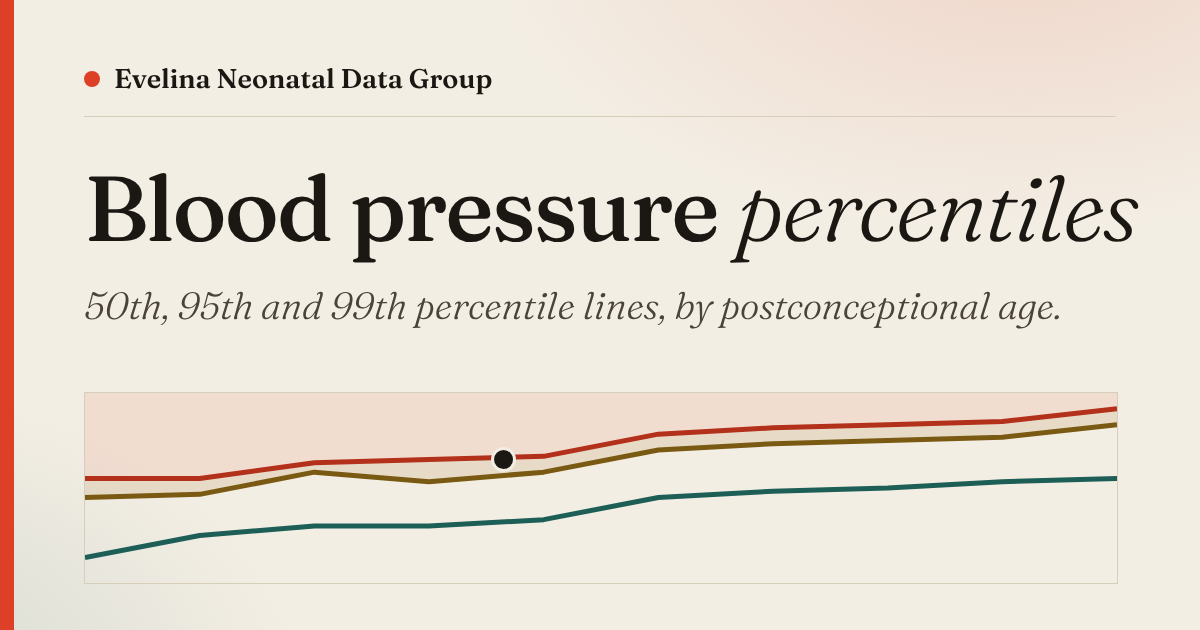
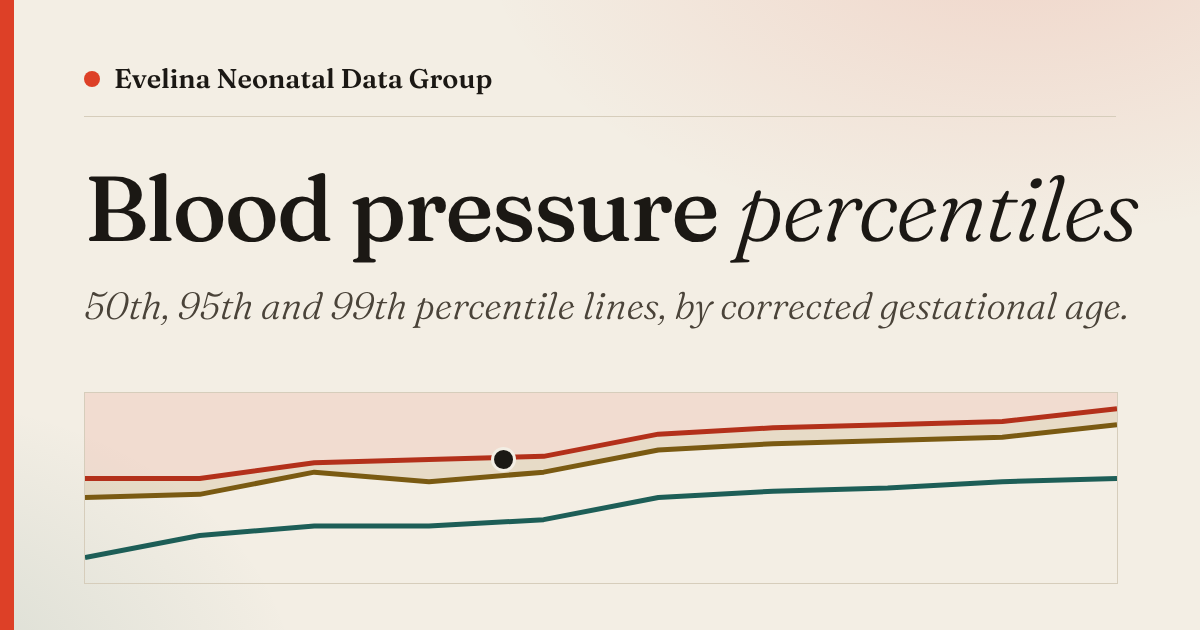
Use corrected gestational age (CGA) terminology
Claude-Session: https://claude.ai/code/session_01LNm2tDApPqiwaX77xzWBnh

Changed region(s): [[0.5858, 0.4524, 0.925, 0.5127]]

diff --git a/index.html b/index.html
@@ -4,7 +4,7 @@
 <meta charset="utf-8">
 <meta name="viewport" content="width=device-width, initial-scale=1">
 <title>Neonatal blood pressure percentiles | Evelina Neonatal Data Group</title>
-<meta name="description" content="Evelina Neonatal Data Group tool: see where a newborn baby’s systolic, diastolic and mean blood pressure falls against the 50th, 95th and 99th percentiles by postconceptional age (Dionne 2012). Nothing you enter leaves your device.">
+<meta name="description" content="Evelina Neonatal Data Group tool: see where a newborn baby’s systolic, diastolic and mean blood pressure falls against the 50th, 95th and 99th percentiles by corrected gestational age (Dionne 2012). Nothing you enter leaves your device.">
 <meta name="theme-color" media="(prefers-color-scheme: light)" content="#f3eee4">
 <meta name="theme-color" media="(prefers-color-scheme: dark)" content="#1b2227">
 <script>
@@ -35,11 +35,11 @@
 <meta property="og:type" content="website">
 <meta property="og:url" content="https://drhammadkhan.github.io/neonatal-hypertension/">
 <meta property="og:title" content="Neonatal blood pressure percentiles | Evelina Neonatal Data Group">
-<meta property="og:description" content="See where a newborn baby’s blood pressure falls against the 50th, 95th and 99th percentiles by postconceptional age (Dionne 2012). Nothing you enter leaves your device.">
+<meta property="og:description" content="See where a newborn baby’s blood pressure falls against the 50th, 95th and 99th percentiles by corrected gestational age (Dionne 2012). Nothing you enter leaves your device.">
 <meta property="og:image" content="https://drhammadkhan.github.io/neonatal-hypertension/og-image.png">
 <meta property="og:image:width" content="1200">
 <meta property="og:image:height" content="630">
-<meta property="og:image:alt" content="Evelina Neonatal Data Group: blood pressure percentiles, 50th, 95th and 99th percentile lines by postconceptional age">
+<meta property="og:image:alt" content="Evelina Neonatal Data Group: blood pressure percentiles, 50th, 95th and 99th percentile lines by corrected gestational age">
 <meta name="twitter:card" content="summary_large_image">
 <meta name="twitter:image" content="https://drhammadkhan.github.io/neonatal-hypertension/og-image.png">
 <link rel="icon" href="favicon.svg" type="image/svg+xml">
@@ -274,7 +274,7 @@
 
   <div class="kicker">Dionne 2012 &middot; neonatal hypertension</div>
   <h1>Blood pressure <em>percentiles</em></h1>
-  <p class="lede">Enter the baby&rsquo;s age and a blood pressure reading to see where the systolic, diastolic and mean pressure fall against the 50th, 95th and 99th percentiles for postconceptional age.</p>
+  <p class="lede">Enter the baby&rsquo;s age and a blood pressure reading to see where the systolic, diastolic and mean pressure fall against the 50th, 95th and 99th percentiles for corrected gestational age.</p>
 
   <main class="grid">
     <div class="stack">
@@ -284,7 +284,7 @@
           <span class="label" id="modeLabel">Enter age as</span>
           <div class="seg" role="radiogroup" aria-labelledby="modeLabel">
             <label><input type="radio" name="mode" value="ga" checked><span>Gestation + age</span></label>
-            <label><input type="radio" name="mode" value="pma"><span>PMA directly</span></label>
+            <label><input type="radio" name="mode" value="pma"><span>CGA directly</span></label>
           </div>
         </div>
         <div class="field" id="gaField">
@@ -299,14 +299,14 @@
           <div class="unit"><input id="pnd" type="number" inputmode="numeric" min="0" max="200" step="1"><span>days old</span></div>
         </div>
         <div class="field" id="pmaField" hidden>
-          <span class="label" id="pmaLabel">Postconceptional age</span>
+          <span class="label" id="pmaLabel">Corrected gestational age</span>
           <div class="row" role="group" aria-labelledby="pmaLabel">
-            <div class="unit"><input id="pmaw" type="number" inputmode="numeric" min="26" max="44" step="1" aria-label="Postconceptional age, weeks"><span>weeks</span></div>
-            <div class="unit"><input id="pmad" type="number" inputmode="numeric" min="0" max="6" step="1" aria-label="Postconceptional age, extra days"><span>+ days</span></div>
+            <div class="unit"><input id="pmaw" type="number" inputmode="numeric" min="26" max="44" step="1" aria-label="Corrected gestational age, weeks"><span>weeks</span></div>
+            <div class="unit"><input id="pmad" type="number" inputmode="numeric" min="0" max="6" step="1" aria-label="Corrected gestational age, extra days"><span>+ days</span></div>
           </div>
         </div>
         <div class="err" id="ageErr" role="alert"></div>
-        <p class="pma-line"><span>Postconceptional age</span><b id="pmaOut">&ndash;</b></p>
+        <p class="pma-line"><span>Corrected gestational age</span><b id="pmaOut">&ndash;</b></p>
       </section>
 
       <section class="card" aria-labelledby="bpH">
@@ -339,7 +339,7 @@
           <label><input type="radio" name="measure" value="MAP" checked><span>MAP</span></label>
         </div>
       </div>
-      <div class="chartwrap" id="chart" role="img" aria-label="Chart of blood pressure percentile lines by postconceptional age"></div>
+      <div class="chartwrap" id="chart" role="img" aria-label="Chart of blood pressure percentile lines by corrected gestational age"></div>
       <div class="legend" aria-hidden="true"><span><i class="l50"></i>50th</span><span><i class="l95"></i>95th</span><span><i class="l99"></i>99th</span><span><i class="dot"></i>Reading</span></div>
     </section>
   </main>
@@ -350,7 +350,7 @@
       <div>
         <div class="tablewrap">
           <table class="thr">
-            <thead><tr><th>PMA</th><th>Measure</th><th>50th</th><th>95th</th><th>99th</th></tr></thead>
+            <thead><tr><th>CGA</th><th>Measure</th><th>50th</th><th>95th</th><th>99th</th></tr></thead>
             <tbody id="tbody"></tbody>
           </table>
         </div>
@@ -360,7 +360,7 @@
     <details>
       <summary>How the result is worked out</summary>
       <div>
-        <p><b>Postconceptional age</b> is gestation at birth plus age in days, in weeks. The table covers 26 to 44 weeks; outside that range no result is given.</p>
+        <p><b>Corrected gestational age</b> is gestation at birth plus age in days, in weeks. The table covers 26 to 44 weeks; outside that range no result is given.</p>
         <p><b>Bands.</b> Below the 50th; 50th up to the 95th; 95th up to the 99th; at or above the 99th. A value equal to a percentile counts as being in the higher band. The overall result is the highest band reached by systolic, diastolic or mean pressure.</p>
         <p><b>Between table rows.</b> For ages between two tabulated rows the percentile values are interpolated in a straight line. For example at 35 weeks the 95th percentile MAP is halfway between the 34-week and 36-week values.</p>
       </div>
@@ -368,14 +368,14 @@
     <details>
       <summary>About this tool</summary>
       <div>
-        <p>Percentile values are from Dionne JM, Abitbol CL, Flynn JT. Hypertension in infancy: diagnosis, management and outcome. <i>Pediatr Nephrol</i> 2012;27:17&ndash;32 (erratum <i>Pediatr Nephrol</i> 2012;27:159&ndash;60), which gives blood pressure by postconceptional age for infants of 26 to 44 weeks. Plotting a reading and banding it are additions to the published table.</p>
+        <p>Percentile values are from Dionne JM, Abitbol CL, Flynn JT. Hypertension in infancy: diagnosis, management and outcome. <i>Pediatr Nephrol</i> 2012;27:17&ndash;32 (erratum <i>Pediatr Nephrol</i> 2012;27:159&ndash;60), which gives blood pressure by corrected gestational age for infants of 26 to 44 weeks. Plotting a reading and banding it are additions to the published table.</p>
         <p>Blood pressure depends on how it was measured, the cuff size and the baby&rsquo;s state. Use a method consistent with the source, and repeat a high reading before acting on it.</p>
         <p>Nothing you enter is sent anywhere.</p>
       </div>
     </details>
   </div>
 
-  <p class="notice" role="note"><strong>Intended purpose:</strong> shows published blood pressure percentiles for infants by postconceptional age, and where an entered reading falls against them, for reference. The treating clinician decides what to do. It supports, and does not replace, clinical judgement and current guidance.</p>
+  <p class="notice" role="note"><strong>Intended purpose:</strong> shows published blood pressure percentiles for infants by corrected gestational age, and where an entered reading falls against them, for reference. The treating clinician decides what to do. It supports, and does not replace, clinical judgement and current guidance.</p>
   <footer>
     <p>Based on Dionne et al., <i>Pediatr Nephrol</i> 2012;27:17&ndash;32.</p>
     <p class="back"><a href="https://drhammadkhan.github.io/evelina-neonatal-data-group/">&larr; All group tools</a></p>
@@ -384,7 +384,7 @@
 </div>
 
 <script>
-/* Percentiles by postconceptional age (weeks): [50th, 95th, 99th] in mmHg. Dionne 2012. */
+/* Percentiles by corrected gestational age (weeks): [50th, 95th, 99th] in mmHg. Dionne 2012. */
 const DATA = {
   26: { SBP: [55, 72, 77],  DBP: [30, 50, 56], MAP: [38, 57, 63] },
   28: { SBP: [60, 75, 80],  DBP: [38, 50, 54], MAP: [45, 58, 63] },
@@ -442,7 +442,7 @@ function getPma() {
     if (!err.length) pma = w + d / 7;
   }
   if (pma !== null && (pma < 26 || pma > 44)) {
-    err.push('Postconceptional age is ' + fmt(pma) + ' weeks. The table covers 26 to 44 weeks, so no result is shown.');
+    err.push('Corrected gestational age is ' + fmt(pma) + ' weeks. The table covers 26 to 44 weeks, so no result is shown.');
     pma = null;
   }
   return { pma, err };
@@ -465,7 +465,7 @@ function drawChart(pma, key, point) {
     svg.appendChild(el('text', { class: 'ch-tick', x: x(w), y: H - B + 18, 'text-anchor': 'middle' }, w));
   }
   svg.appendChild(el('line', { class: 'ch-axis', x1: L, x2: W - R, y1: H - B, y2: H - B }));
-  svg.appendChild(el('text', { class: 'ch-title', x: (L + W - R) / 2, y: H - 6, 'text-anchor': 'middle' }, 'POSTCONCEPTIONAL AGE (WEEKS)'));
+  svg.appendChild(el('text', { class: 'ch-title', x: (L + W - R) / 2, y: H - 6, 'text-anchor': 'middle' }, 'CORRECTED GESTATIONAL AGE (WEEKS)'));
   svg.appendChild(el('text', { class: 'ch-title', x: 0, y: 0, transform: 'translate(12 ' + ((T + H - B) / 2) + ') rotate(-90)', 'text-anchor': 'middle' }, 'mmHg'));
   const line = i => WEEKS.map((w, j) => (j ? 'L' : 'M') + x(w) + ' ' + y(DATA[w][key][i])).join('');
   const area = (i, edge) => line(i) + [...WEEKS].reverse().map(w => 'L' + x(w) + ' ' + y(edge === 'top' ? yMax : DATA[w][key][2])).join('') + 'Z';
@@ -480,7 +480,7 @@ function drawChart(pma, key, point) {
     svg.appendChild(el('circle', { class: 'ch-pt ' + BANDS[bandOf(point, th)].cls, cx: x(pma), cy: y(point), r: 7 }));
   }
   $('chart').replaceChildren(svg);
-  $('chart').setAttribute('aria-label', NAMES[key] + ' blood pressure percentile lines by postconceptional age, 26 to 44 weeks');
+  $('chart').setAttribute('aria-label', NAMES[key] + ' blood pressure percentile lines by corrected gestational age, 26 to 44 weeks');
 }
 
 function update() {
@@ -530,7 +530,7 @@ function update() {
     const hi = ['SBP', 'DBP', 'MAP'].filter(k => order.indexOf(bandOf(vals[k], thresholds(pma, k))) === worst).map(k => NAMES[k].toLowerCase());
     banner.innerHTML = '<b></b><div class="ctx"></div>' + (worst ? '<p></p>' : '');
     banner.querySelector('b').textContent = titles[bk];
-    banner.querySelector('.ctx').textContent = Math.round(sbp) + '/' + Math.round(dbp) + ' (' + Math.round(map) + ') mmHg at ' + fmt(pma) + ' weeks postconceptional age';
+    banner.querySelector('.ctx').textContent = Math.round(sbp) + '/' + Math.round(dbp) + ' (' + Math.round(map) + ') mmHg at ' + fmt(pma) + ' weeks corrected gestational age';
     if (worst) banner.querySelector('p').textContent = 'Reached by the ' + hi.join(', ') + ' pressure. Highest band across systolic, diastolic and mean.';
     banner.hidden = false; meas.hidden = false; empty.hidden = true;
     point = vals[key];

diff --git a/README.md b/README.md
@@ -1,10 +1,10 @@
 # Neonatal hypertension – BP percentile check
 
 Single-file, offline web app (`index.html`) that compares a neonatal blood pressure
-(SBP, DBP, MAP) with percentiles by postconceptional age (26–44 weeks).
+(SBP, DBP, MAP) with percentiles by corrected gestational age (CGA) (26–44 weeks).
 
 Reference: Dionne JM et al. Pediatr Nephrol 2012;27:17–32 (Erratum: 27:159–60).
 
 Notes
-- Thresholds between the tabulated 2-week PMA steps are linearly interpolated.
+- Thresholds between the tabulated 2-week CGA steps are linearly interpolated.
 - Decision support only; not a substitute for clinical judgement.
